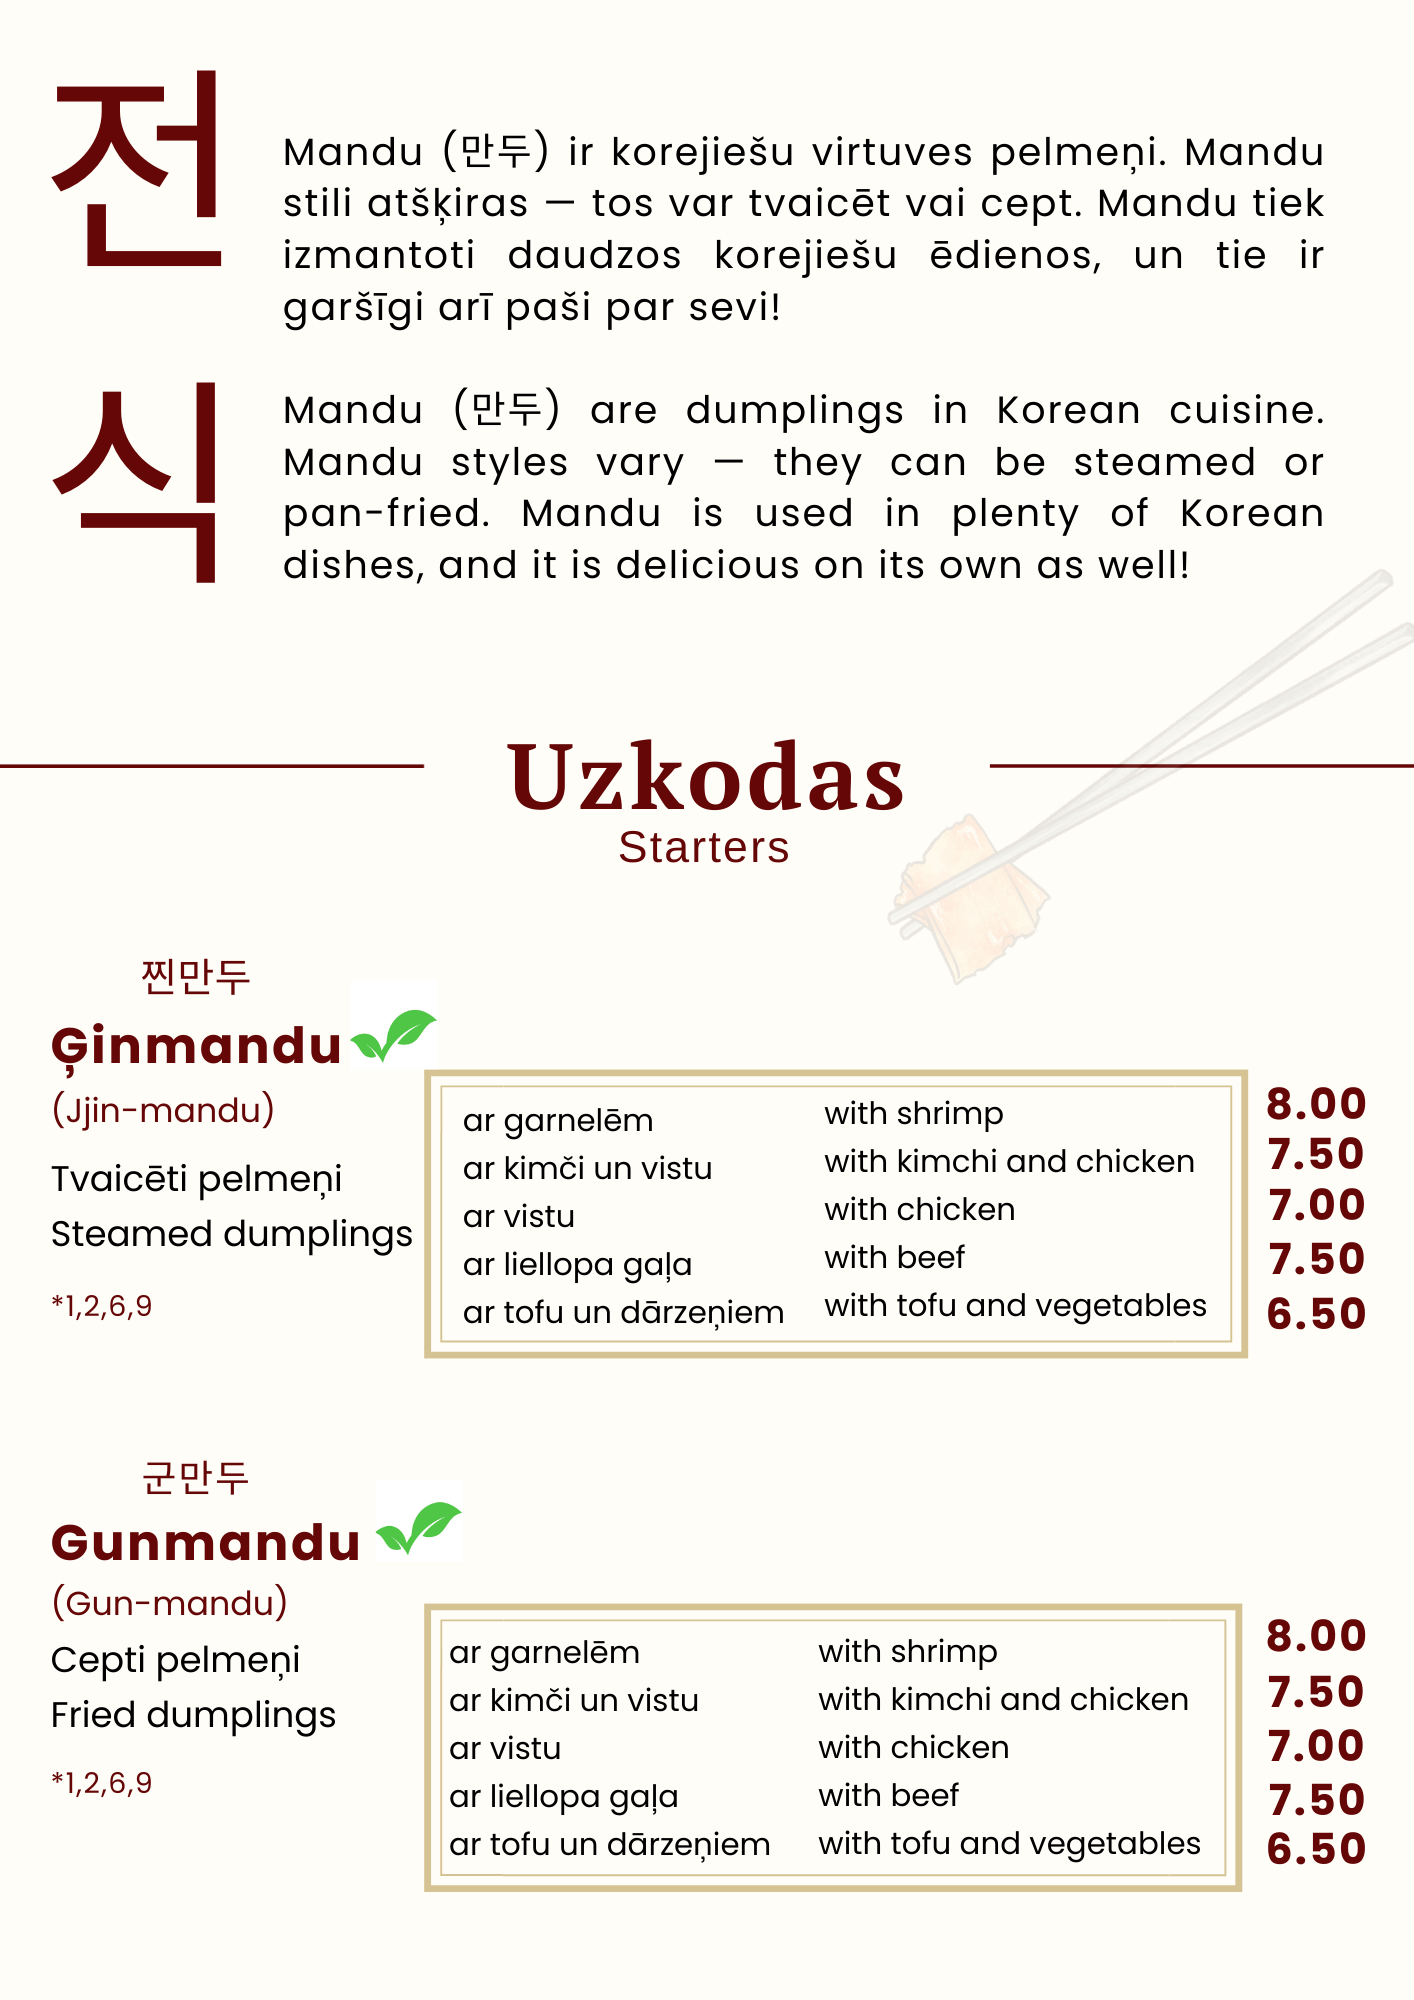
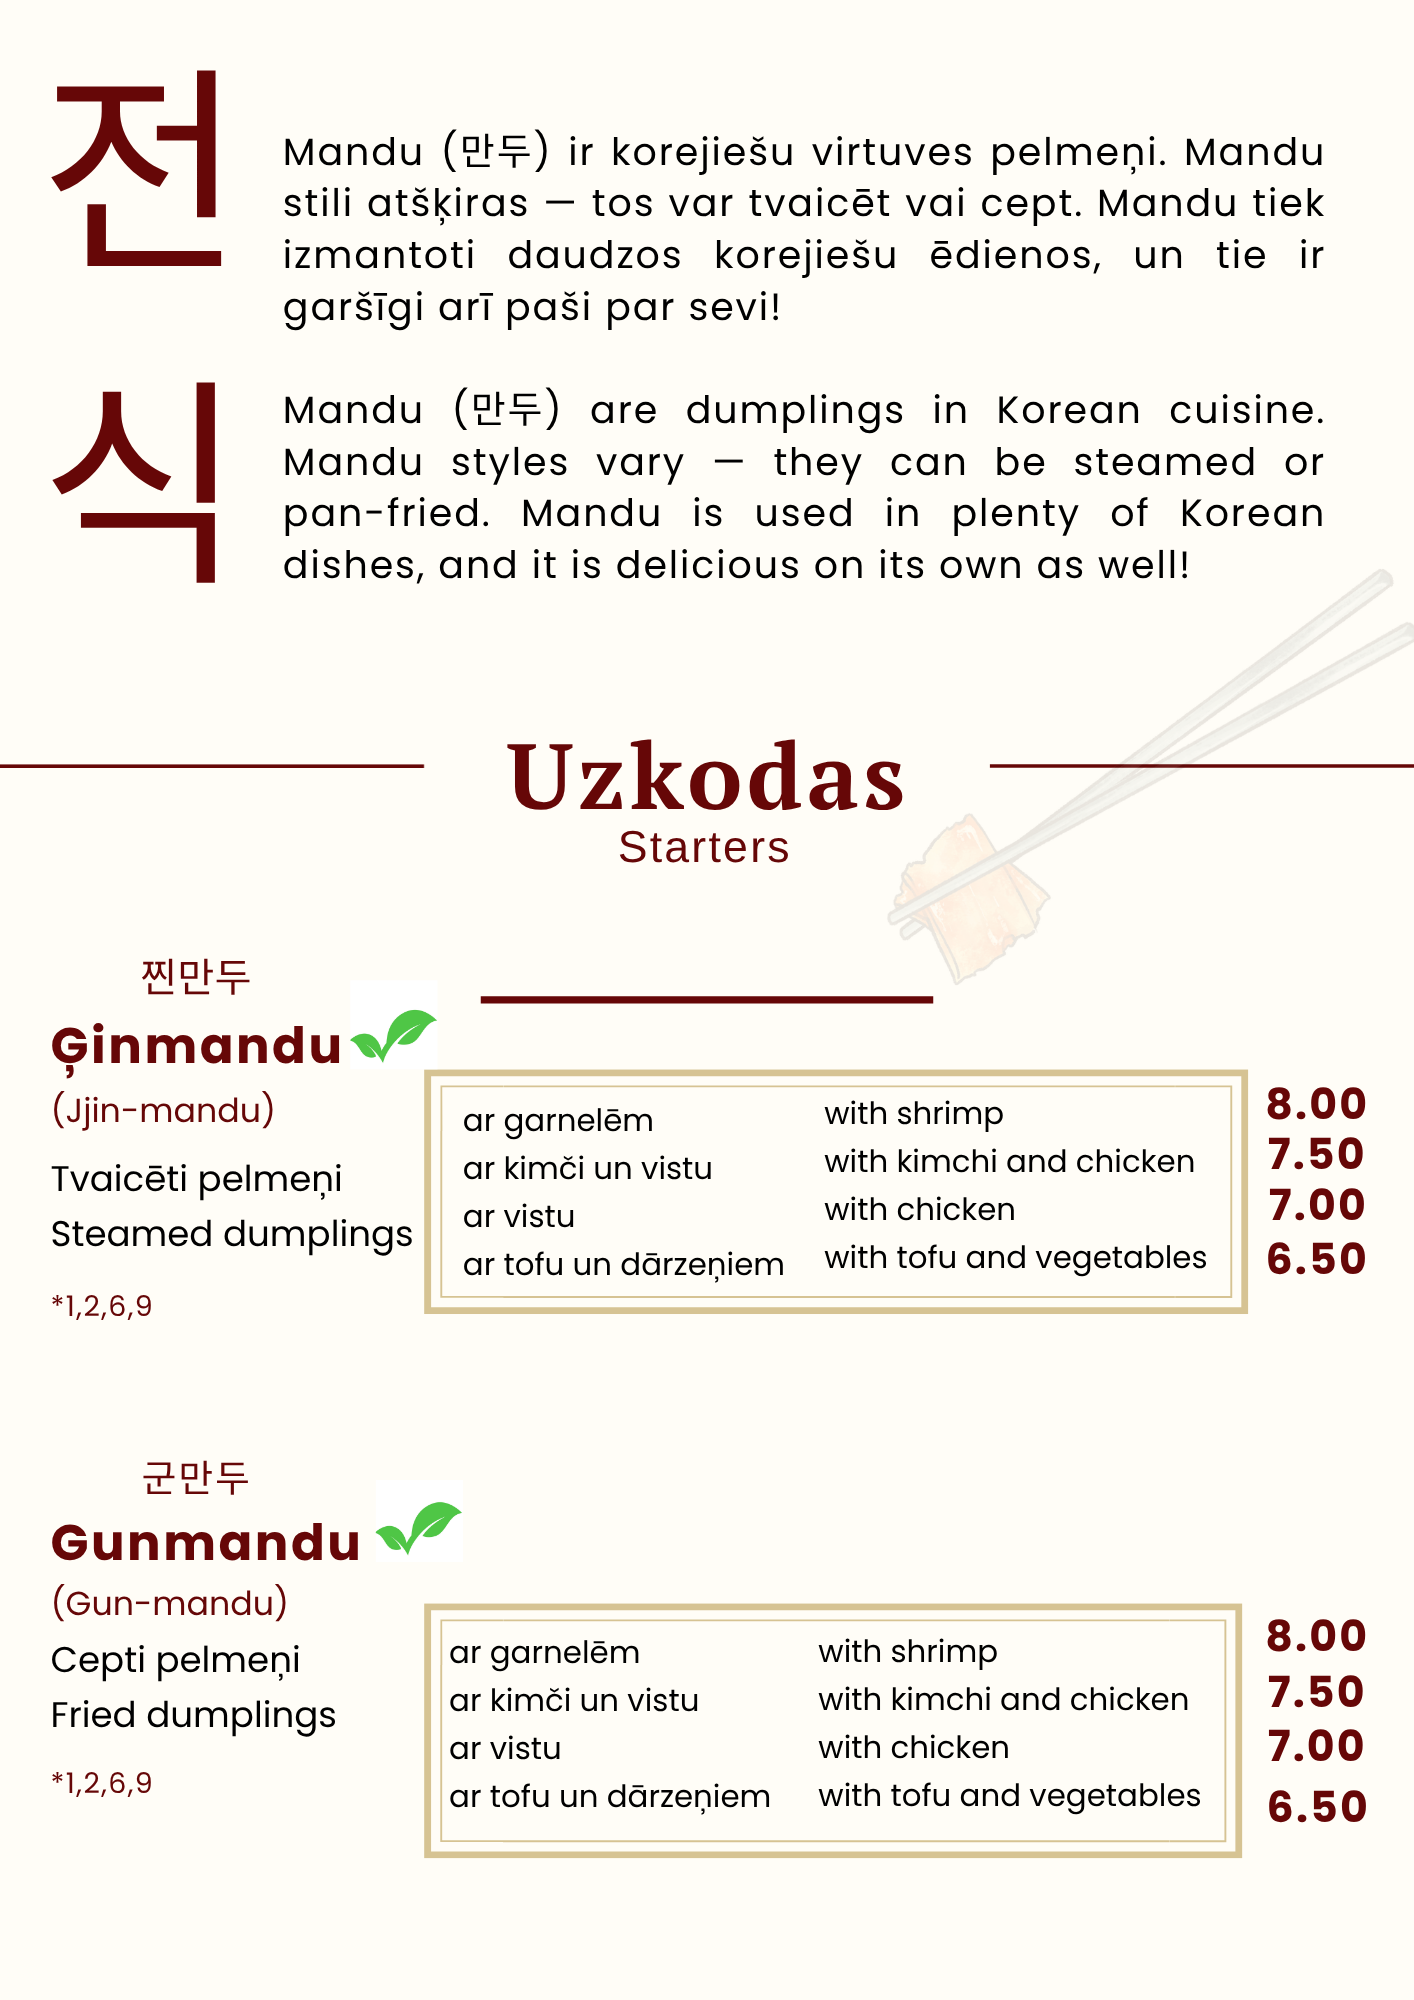
upd

Changed region(s): [[0.2801, 0.868, 0.9646, 0.961], [0.2801, 0.62, 0.9646, 0.682], [0.3423, 0.496, 0.6535, 0.527]]

diff --git a/index.html b/index.html
@@ -30,7 +30,7 @@
 
   <img class="menu-image" src="1.png" alt="Menu Page 1">
   <img class="menu-image" src="2.png" alt="Menu Page 2">
-  <!--<img class="menu-image" src="special new offer.png" alt="Menu Page New">-->
+  <img class="menu-image" src="special new offer.png" alt="Menu Page New">
   <img class="menu-image" src="new1.png" alt="Menu Page New">
   <img class="menu-image" src="lunch1.png" alt="Menu Page Lunch">
   <img class="menu-image" src="lunch.png" alt="Menu Page Lunch">
